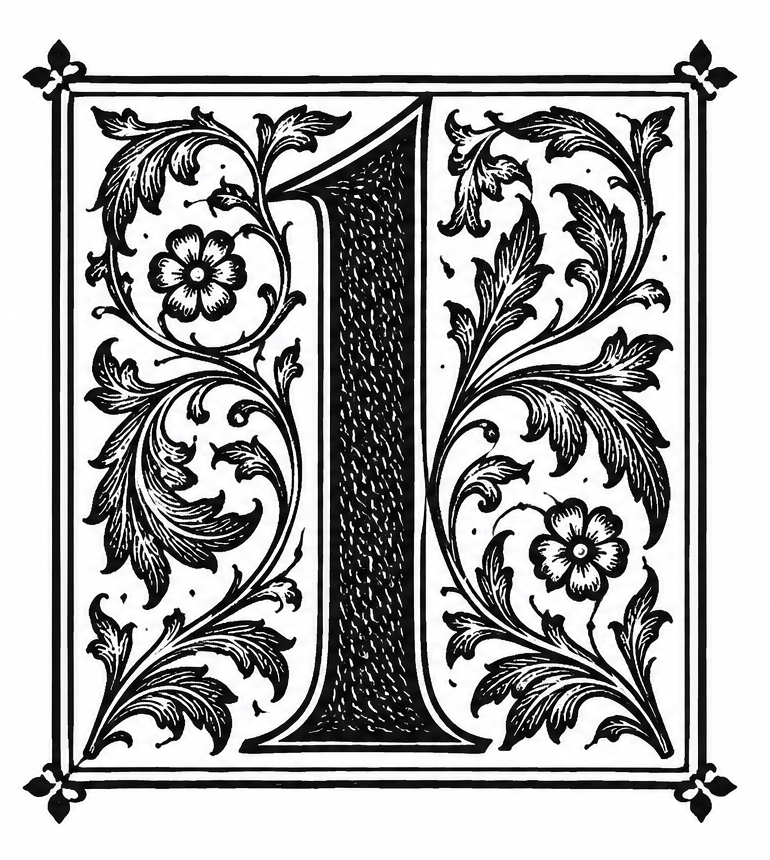
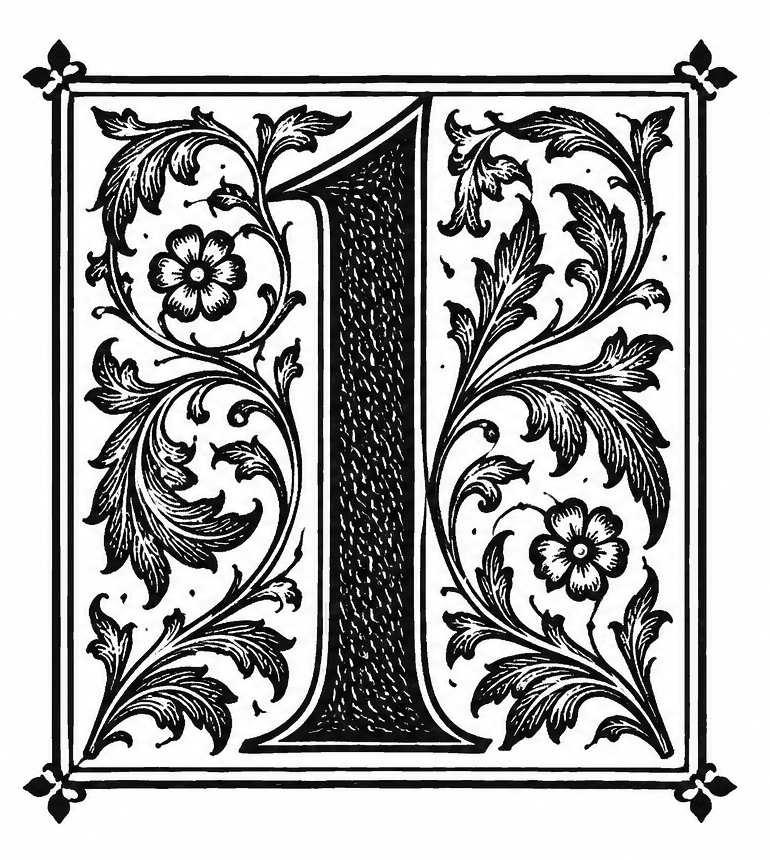
Credit the template's contributors; shrink the drop-cap images
The acknowledgment's last paragraph names everyone who created or
revised the template. drop_cap_1.png and drop_cap_2.png are now
16-level grayscale, about 185 KB each instead of 850 KB.

Claude-Session: https://claude.ai/code/session_01RYzRYCv2iLKumssEdo25RA

diff --git a/acknowledgment.tex b/acknowledgment.tex
@@ -23,5 +23,4 @@ I gratefully acknowledge support from the National Pen Foundation, under grant \
 Whenever my coffee machine broke, the NJIT Department of Caffeine Services came quickly and repaired the system before I showed signs of withdrawal. Miss Jackie was especially helpful---and friendly! I wish her the best in her retirement.
 
 % Finally friends and family
-I would like to thank my classmates and predecessors in the NJIT Department of Mathematical Sciences, especially Adrienne James (Ph.D. 2001) for creating such an excellent \LaTeX\ style file.  It does a great job of laying out my dissertation, so I can spend more time on
-improving the content.  
+I would like to thank my classmates and predecessors in the NJIT Department of Mathematical Sciences who built and improved this \LaTeX\ template: Adrienne C.\ N.\ James, who created the first edition with Jerry Jen-Sou Chen; Eliana Antoniou, Stephen A.\ Kunec, Hoa Kien Tran, and Shoubhik Mondal, who revised it; and Jimmie Adriazola, Prof.\ Roy Goodman, and Prof.\ Christina Frederick, who revised it further, with help from Claude.ai. Thanks also to everyone else who contributed along the way. Their work does a great job of laying out my dissertation, so I can spend more time on improving the content.
